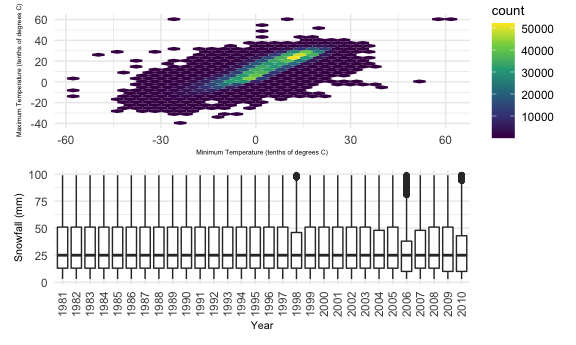
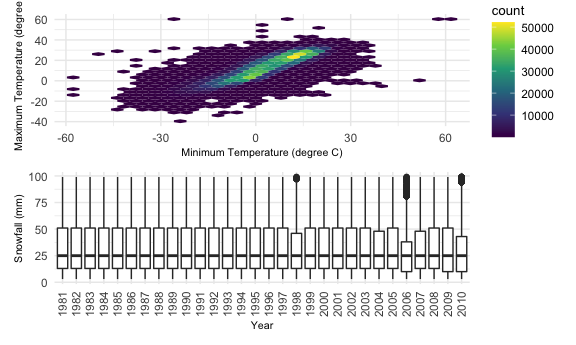
Update Plots

diff --git a/P8105_HW3_ys3295.md b/P8105_HW3_ys3295.md
@@ -394,8 +394,8 @@ Description:
 
   - The average maximum temperature is 13.98 tenths of degrees C with
     the standard deviation of 11.14 tenths of degrees C. The range of
-    between maximum temperature during the period is between 60 tenths
-    of degrees C and -38.9 tenths of degrees C.
+    maximum temperature during the period is between 60 tenths of
+    degrees C and -38.9 tenths of degrees C.
 
   - The average minimum temperature is 3.03 tenths of degrees C with the
     standard deviation of 10.4 tenths of degrees C. The range of minimum
@@ -404,7 +404,7 @@ Description:
 
   - There are 1134420 , 1134358 and 381221 missing values in the
     variables of minimum and maximum temperature, and snowfall
-    respectively. The large number of missing values in the above might
-    cause potential issues when drawing plots (the warning message pop
-    up when drawing average max temperature in January and July in each
-    station across years).
+    respectively. The large number of missing values in the above
+    variables might cause potential issues when drawing plots (e.g. the
+    warning message pop up when drawing average max temperature in
+    January and July in each station across years).
